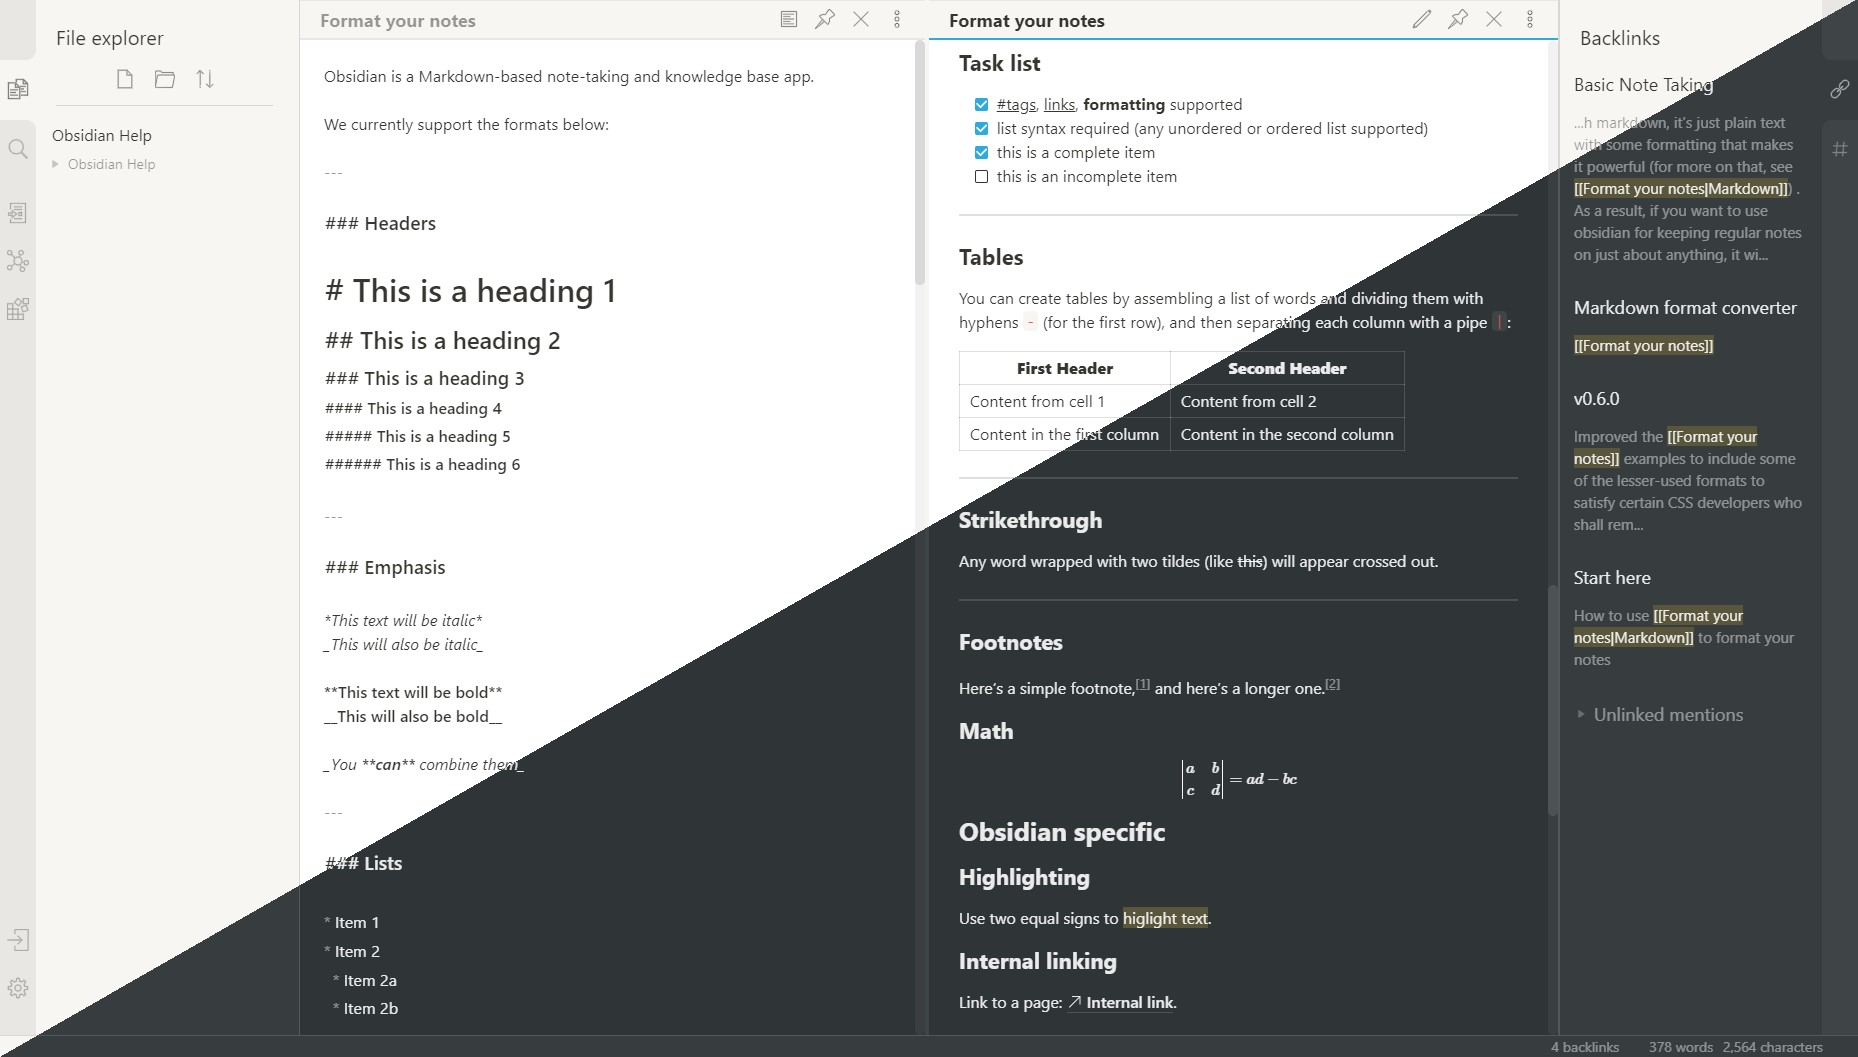
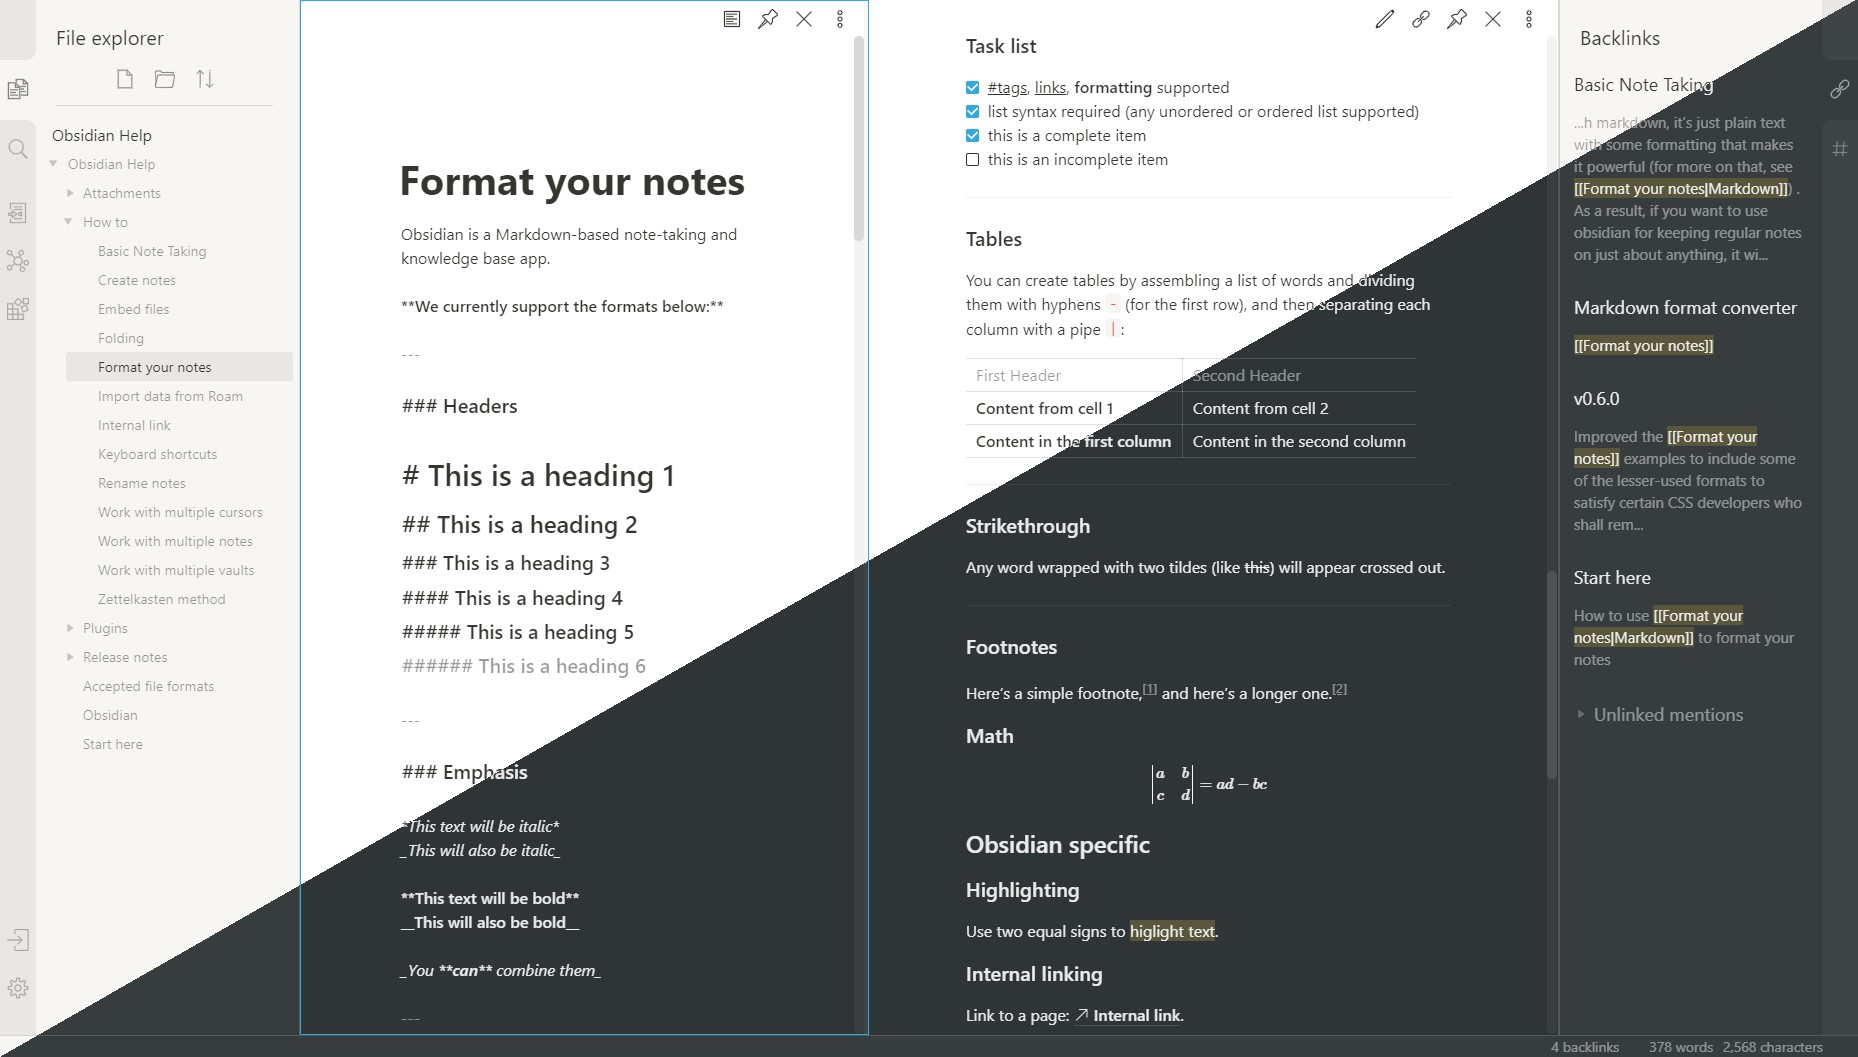
Lots of changes to make it look like Notion
Not least of which is the headers, which were a bit tricky, and might not work with my Andy's notes mod...

diff --git a/obsidian.css b/obsidian.css
@@ -1,6 +1,7 @@
 body {
   --font-monospace: "SFMono-Regular", Consolas, "Liberation Mono", Menlo, Courier, monospace;
   --code: #EB5757;
+  -webkit-font-smoothing: auto;
 }
 
 .theme-dark {
@@ -37,7 +38,7 @@ body {
   --scrollbar-bg: rgba(255, 255, 255, 0.05);
   --scrollbar-thumb-bg: rgba(255, 255, 255, 0.1);
 }
-.theme-light {
+.theme-dark {
   --background-primary: white;
   --background-primary-alt: rgb(247, 246, 243);
   --background-secondary: rgb(247, 246, 243);
@@ -75,7 +76,7 @@ body {
 body, html {
     font-family: -apple-system, BlinkMacSystemFont, "Segoe UI", Helvetica, "Apple Color Emoji", Arial, sans-serif, "Segoe UI Emoji", "Segoe UI Symbol"
 }
-h1, h2, h3, h4, h5, h6, .view-header-title {
+h1, h2, h3, h4, h5, h6, .view-header-title, .cm-s-obsidian .cm-header {
     font-weight: 700;
 }
 
@@ -96,7 +97,7 @@ h1, h2, h3, h4, h5, h6, .view-header-title {
     text-decoration: none;
 }
 
-.markdown-preview-view .internal-link::before {
+.markdown-preview-view .internal-link::before, .markdown-embed-link::before {
     content: " ";
     background-color: var(--text-normal);
     clip-path: polygon(18.00%	100.00%	,	80.00%	38.00%	,	80.00%	80.00%	,	86.67%	80.00%	,	86.67%	26.67%	,	33.33%	26.67%	,	33.33%	33.33%	,	75.33%	33.33%	,	13.33%	95.33%); 
@@ -124,7 +125,7 @@ h1, h2, h3, h4, h5, h6, .view-header-title {
 }
 .markdown-preview-view .task-list-item-checkbox:checked {
     border:none;
-    background-color: #2eaadc;
+    background-color: var(--interactive-accent);
 }
 .markdown-preview-view .task-list-item-checkbox:hover {
     background-color: var(--background-primary-alt);
@@ -140,7 +141,16 @@ h1, h2, h3, h4, h5, h6, .view-header-title {
     clip-path: polygon(39.29%	85.71%	,	100.00%	25.00%	,	89.29%	14.29%	,	39.29%	64.28%	,	10.71%	35.69%	,	0.00%	46.42%); 
 }
 
-.markdown-preview-view blockquote {
+.markdown-preview-view .task-list-item:has(.task-list-item-checkbox:checked) {
+    text-decoration: line-through;
+    color: var(--text-muted);
+}
+
+.markdown-preview-view .task-list-item {
+    margin-left: -40px;
+}
+
+.markdown-preview-view blockquote, .cm-s-obsidian pre.HyperMD-quote-1 {
     border:none;
     border-left: 3px solid currentcolor;
     padding: 0 0.9em;
@@ -150,8 +160,6 @@ h1, h2, h3, h4, h5, h6, .view-header-title {
 
 .cm-s-obsidian span.cm-quote {
     color: var(--text-normal);
-    padding: 0 0.9em;
-    font-size: 1.2em;
 }
 
 .markdown-preview-view code, .cm-s-obsidian span.cm-inline-code, .cm-s-obsidian pre.HyperMD-codeblock {
@@ -165,4 +173,201 @@ h1, h2, h3, h4, h5, h6, .view-header-title {
 
 .markdown-preview-view mark {
     color: var(--text-normal);
+}
+
+.CodeMirror-lines, .markdown-preview-view {
+    max-width: 900px !important;
+    margin-left: auto !important;
+    margin-right: auto;
+    padding: 0px 96px 30vh !important;
+    border: none !important;
+}
+.CodeMirror-lines {
+    margin-top: 16px;
+}
+.CodeMirror {
+    padding:0;
+}
+.view-header, .workspace-leaf.mod-active .view-header {
+    max-width: 900px;
+    margin-left: auto;
+    margin-right: auto;
+    padding: 0px 96px;
+    border: none;
+    background-color: transparent;
+    height: calc(170px);
+}
+.workspace-leaf {
+    position: relative;
+}
+.workspace-leaf-content {
+    overflow: auto;
+    position: unset;
+    margin-top: 35px;
+}
+.view-header-title-container:after {
+    content: none;
+}
+
+.view-header-title-container {
+    width: 100%;
+    margin-top:auto;
+    height:auto;
+    padding:0;
+}
+.view-header-title {
+    font-size: 40px;
+    line-height: 1.2em;
+    padding: 3px 2px;
+    height:auto;
+    margin:0;
+    color: var(--text-normal);
+}
+
+.view-actions {
+    position: absolute;
+    top:0;
+    right:0;
+    left:0;
+    background-color: transparent;
+    z-index:1
+}
+/* .mod-active .view-actions{
+    background-color: var(--background-primary-alt)
+} */
+/* .mod-active .view-actions::before {
+    content:'';
+    width: 0;
+    height: 0;
+    border-style: solid;
+    border-width: 35px 35px 0 0;
+    border-color: var(--interactive-accent) transparent transparent transparent;
+    position: absolute;
+    left:0;
+    top:0;
+} */
+
+.view-content {
+    height: auto;
+}
+
+.markdown-source-view{
+    z-index:0;
+}
+
+.view-action {
+    color: var(--text-normal);
+}
+
+.workspace-leaf.mod-active{
+    border:1px solid var(--interactive-accent);
+}
+.workspace-leaf:not(.mod-active){
+    border:1px solid transparent;
+}
+.workspace-split.mod-vertical > .workspace-leaf:not(:last-child) {
+    padding-right: 4px;
+}
+
+.markdown-preview-view, .markdown-source-view {
+    background-color: transparent;
+}
+* {
+    box-sizing: border-box;
+}
+
+.markdown-embed-title {
+    font-size: 1.25em;
+    line-height: 1.5;
+    font-weight: 600;
+    text-align: left;
+}
+
+.markdown-preview-view .markdown-embed {
+    border:none;
+    /* padding:0; */
+    margin:0;
+    border-bottom: 1px solid var(--background-modifier-border);
+    border-radius: 0;
+}
+
+.markdown-preview-view .markdown-embed-content {
+    /* max-height: none; */
+}
+
+.markdown-embed-link {
+    color: var(--text-normal);
+    right:unset;
+    left: 0;
+    height: 30px;
+    width: calc(100% - 20px);
+    margin-left: 4px;
+    border-bottom: 1px solid var(--background-modifier-border);
+}
+
+.markdown-embed-link::before {
+    font-size: 0.8em;
+}
+
+.markdown-embed-link svg {
+    display: none;
+}
+
+.markdown-preview-view h1{
+    font-size: 30px;
+    margin-top: 32px;
+    margin-bottom: 4px;
+    font-weight: 600;
+}
+.markdown-preview-view h2{
+    font-size: 24px;
+    margin-top: 23px;
+    margin-bottom: 1px;
+    font-weight: 600;
+}
+.markdown-preview-view h3,
+.markdown-preview-view h4,
+.markdown-preview-view h5,
+.markdown-preview-view h6{
+    font-size: 20px;
+    margin-top: 16px;
+    margin-bottom: 0px;
+    font-weight: 600;
+}
+
+.cm-s-obsidian .cm-header-1 { font-size: 30px; }
+.cm-s-obsidian .cm-header-2 { font-size: 24px; }
+.cm-s-obsidian .cm-header-3,
+.cm-s-obsidian .cm-header-4,
+.cm-s-obsidian .cm-header-5,
+.cm-s-obsidian .cm-header-6{ font-size: 20px; }
+.cm-s-obsidian .cm-header-6 { color: var(--text-muted); }
+
+
+strong, .cm-s-obsidian .cm-header {
+    font-weight: 600;
+}
+
+ul { list-style-type: disc; }
+
+.markdown-preview-view th:first-child, .markdown-preview-view td:first-child {
+    border-left: none;
+}
+.markdown-preview-view th:last-child, .markdown-preview-view td:last-child {
+    border-right: none;
+}
+
+.markdown-preview-view th {
+    text-align: left;
+    font-weight: normal;
+    color: var(--text-muted);
+}
+
+.markdown-preview-view td:first-child {
+    font-weight: 600;
+}
+
+.markdown-preview-view hr {
+    height: 1px;
+    opacity: 0.5;
 }
